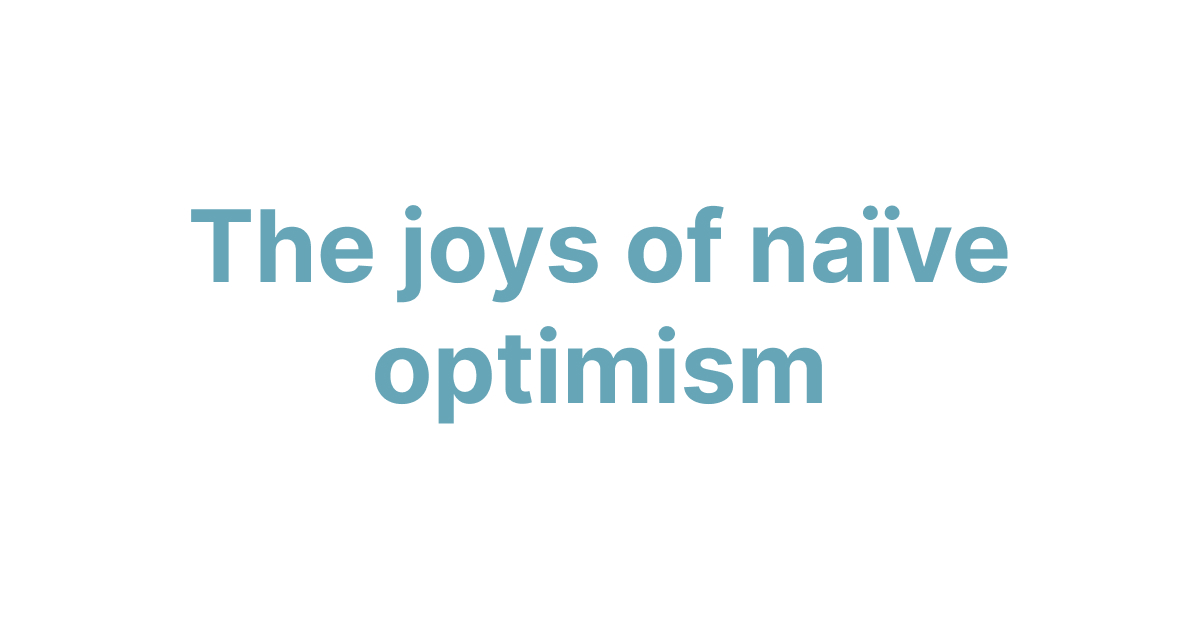
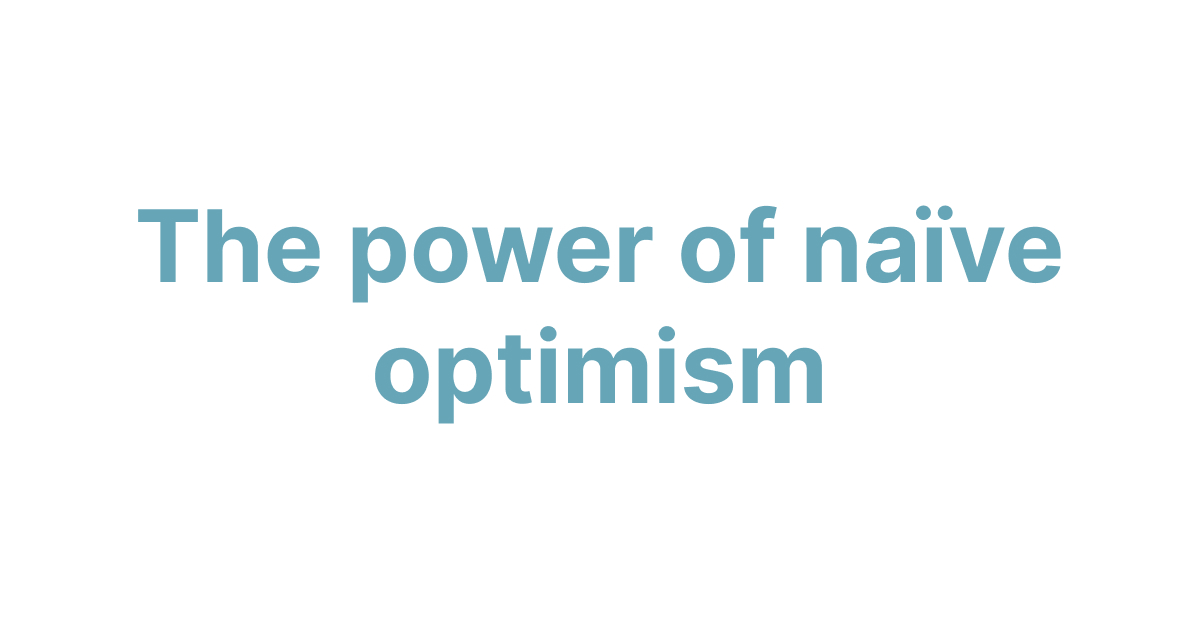
title change

Changed region(s): [[0.0925, 0.3317, 0.8942, 0.4825]]

diff --git a/_posts/2019-09-21-optimism.md b/_posts/2019-09-21-optimism.md
@@ -1,6 +1,6 @@
 ---
 layout: post
-title: The joys of naïve optimism
+title: The power of naïve optimism
 date: 2019-09-21 08:47 +0100
 categories: Journal
 img: /assets/img/journal/naive-optimism.jpg
